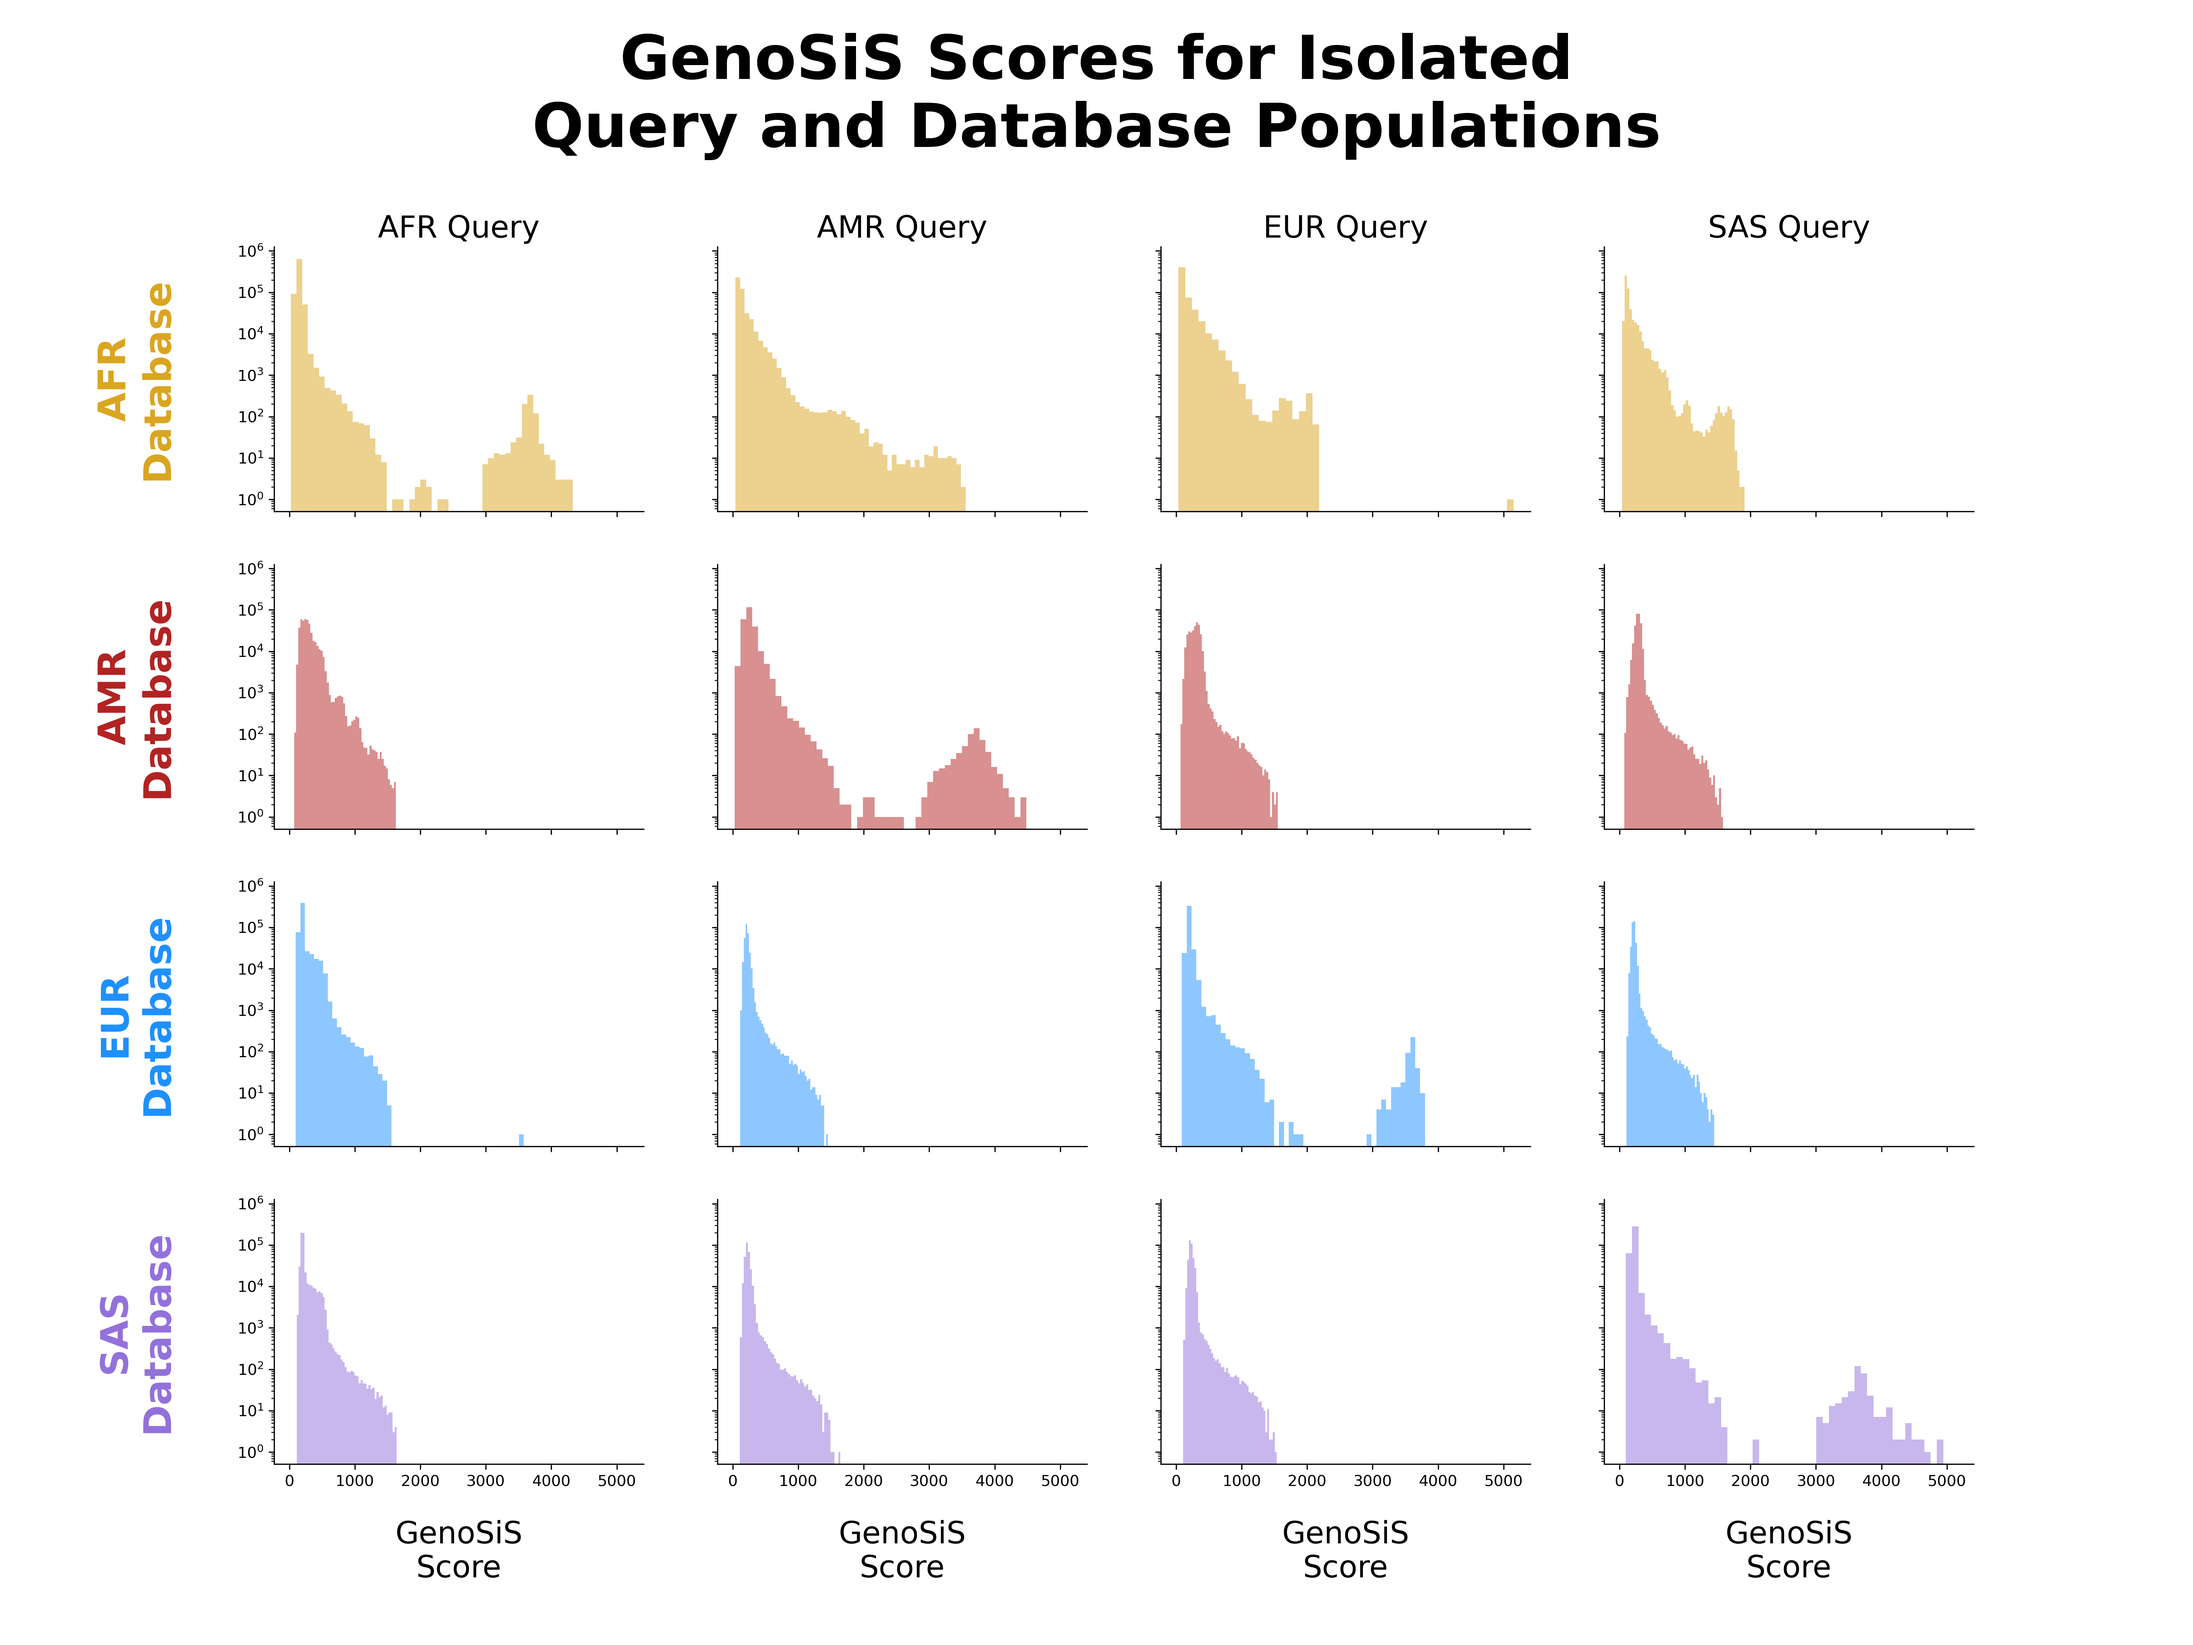
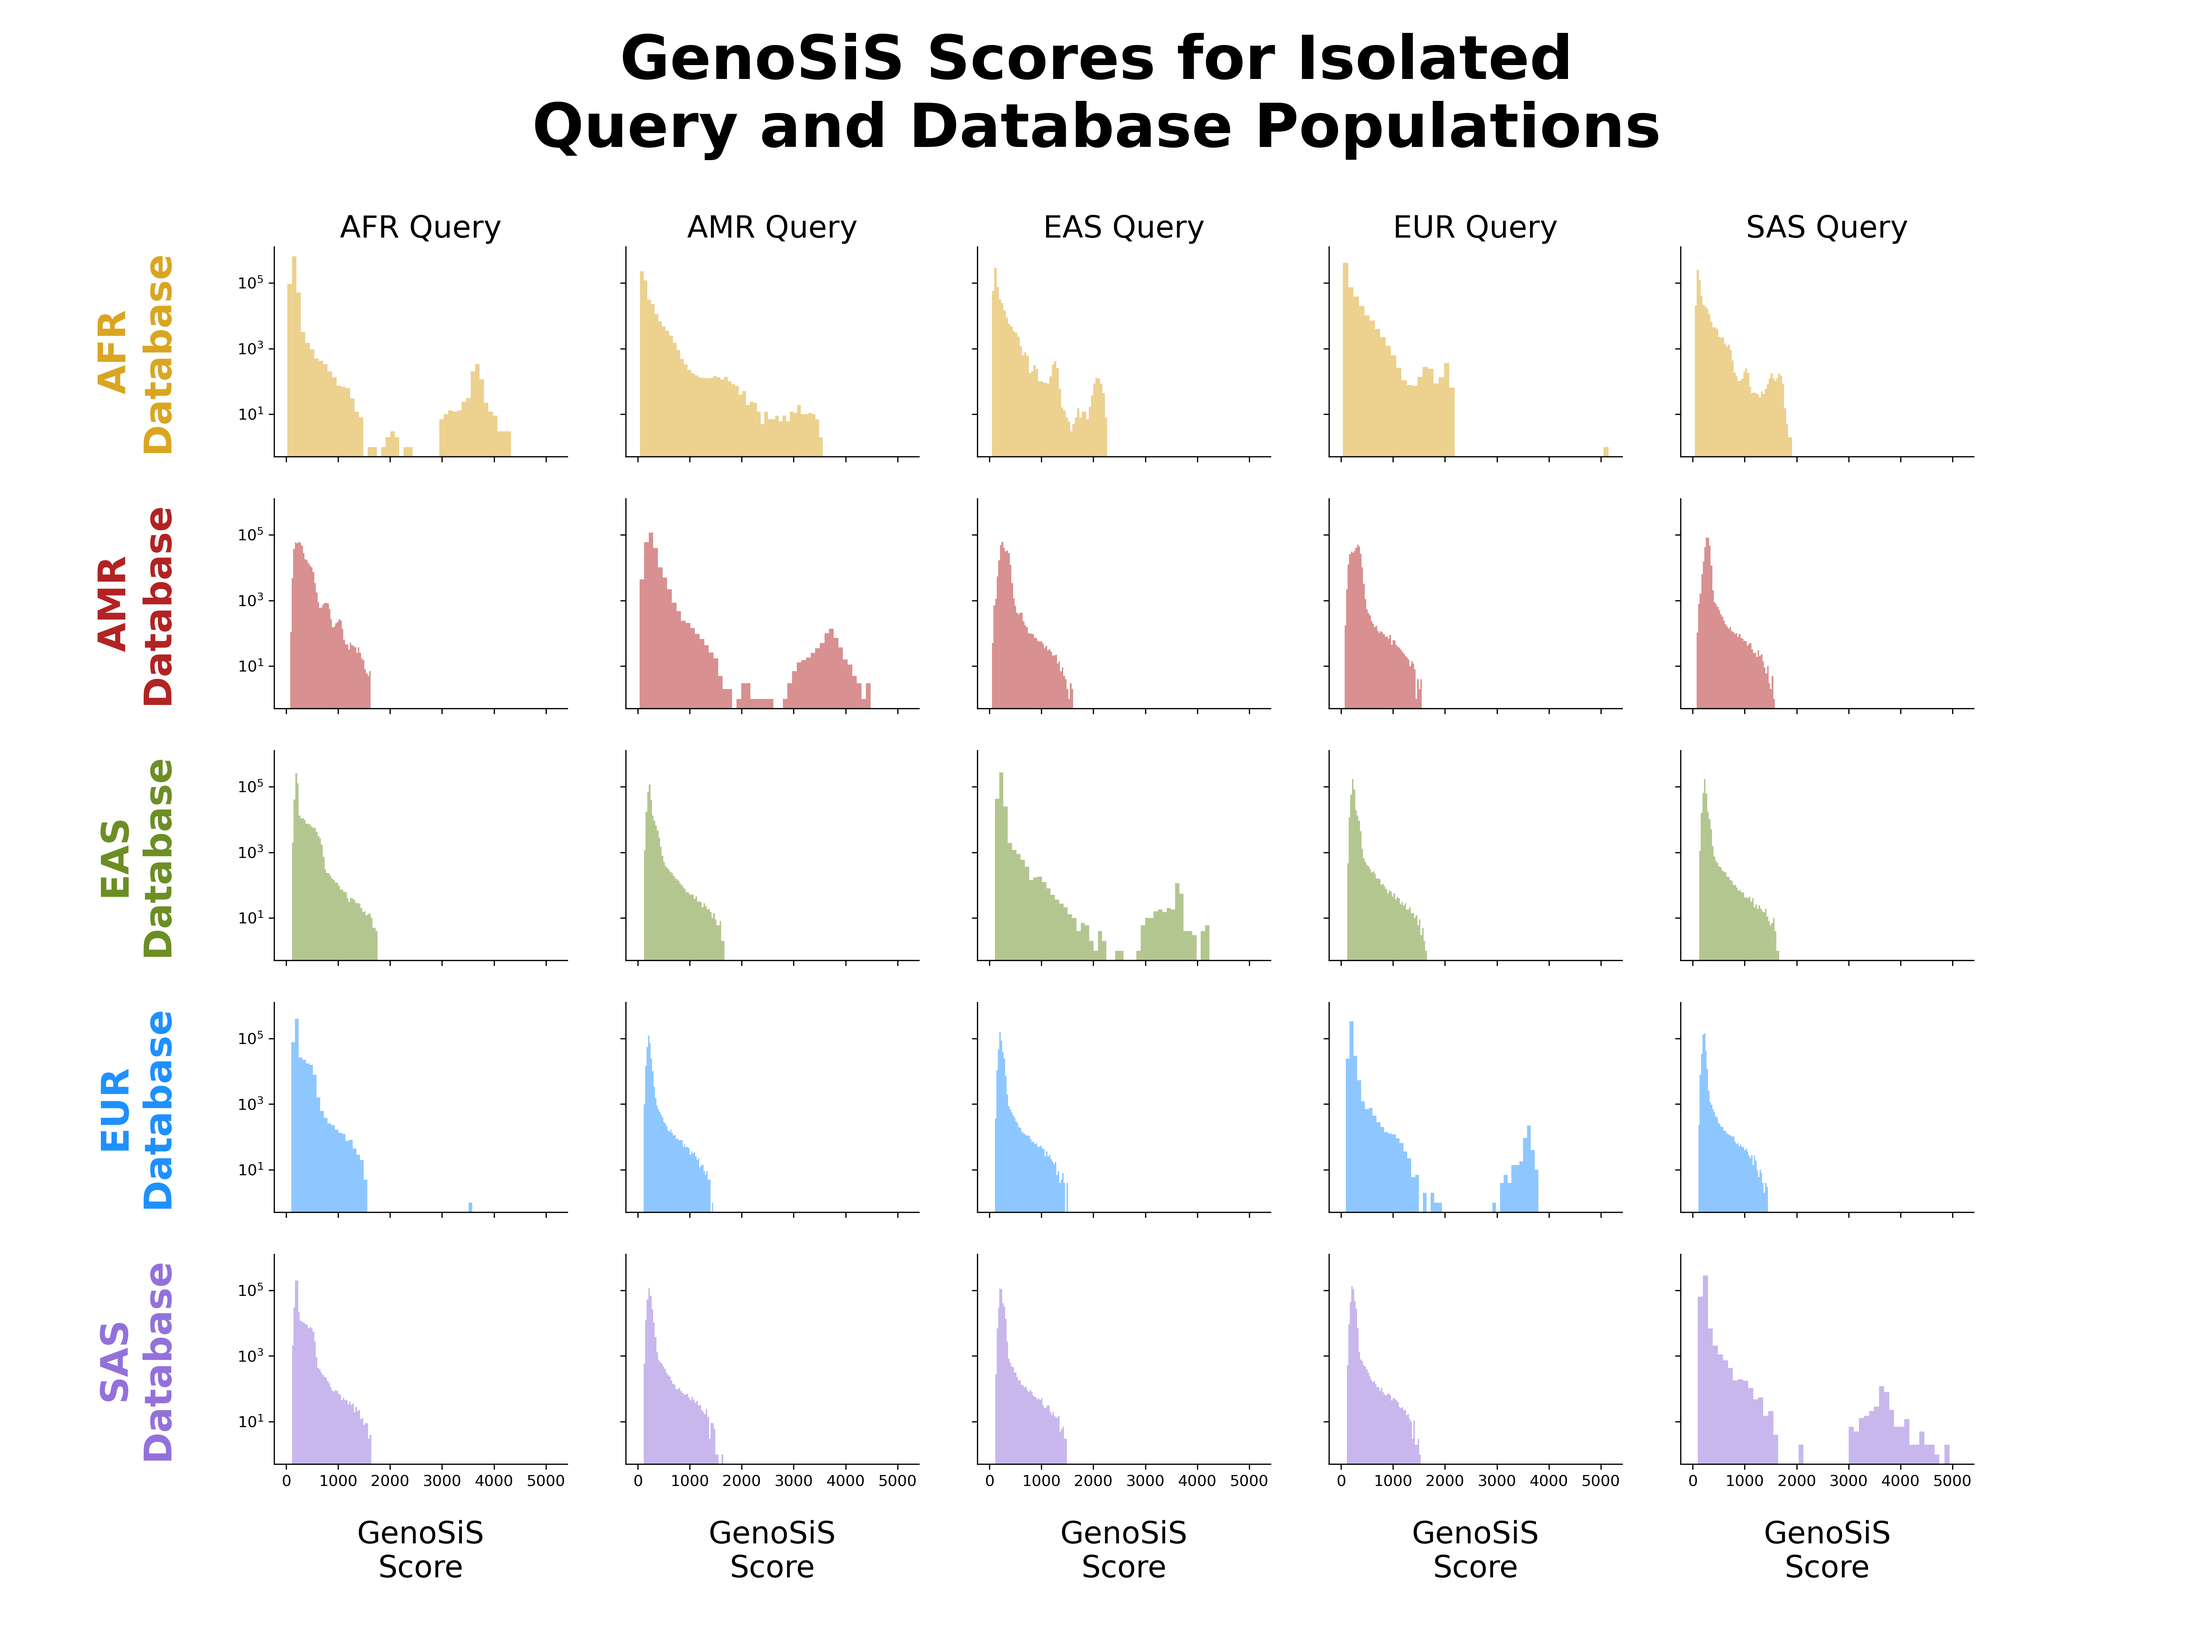
adding EAS

diff --git a/plotting/figure5_quality.py b/plotting/figure5_quality.py
@@ -57,14 +57,14 @@ def plot_quality_results_heatmap(AFR_quality_scores,
 
 def plot_quality_results_histogram(AFR_quality_scores,
                                    AMR_quality_scores,
-                                   # EAS_quality_scores,
+                                   EAS_quality_scores,
                                    EUR_quality_scores,
                                    SAS_quality_scores,
                                    colors,
                                    png):
     SUPER_SUBPOPULATIONS = ancestry_helpers.SUPER_SUBPOPULATIONS
 
-    fig, ax = plt.subplots(4, 4,
+    fig, ax = plt.subplots(5, 5,
                            figsize=(20, 15), dpi=300,
                            sharex=True, sharey=True)
 
@@ -80,7 +80,7 @@ def plot_quality_results_histogram(AFR_quality_scores,
                             fontsize=25, color=colors[database_population],
                             fontweight='bold', labelpad=40)
         # set x-axis label
-        ax[3, i].set_xlabel('GenoSiS Score', fontsize=20, labelpad=20)
+        ax[4, i].set_xlabel('GenoSiS Score', fontsize=20, labelpad=20)
         # ignore outliers
         # ax[i, 1].set_xlim(0, 1000)
         # log scale
@@ -95,41 +95,43 @@ def plot_quality_results_histogram(AFR_quality_scores,
             database_scores.extend(AMR_quality_scores[database_population][database_subpopulation])
         ax[i, 1].hist(database_scores, bins=50, color=colors[database_population], alpha=0.5)
         # set x-axis label
-        ax[3, i].set_xlabel('GenoSiS Score', fontsize=20, labelpad=20)
+        ax[4, i].set_xlabel('GenoSiS Score', fontsize=20, labelpad=20)
 
 
     # # East Asian query is third column
-    # ax[0, 2].set_title('EAS Query', fontsize=20)
-    # for i, database_population in enumerate(EAS_quality_scores.keys()):
-    #     database_scores = []
-    #     for j, database_subpopulation in enumerate(EAS_quality_scores[database_population].keys()):
-    #         database_scores.extend(EAS_quality_scores[database_population][database_subpopulation])
-    #     ax[i, 2].hist(database_scores, bins=50, color=ancestry_colors[database_population], alpha=0.5)
+    ax[0, 2].set_title('EAS Query', fontsize=20)
+    for i, database_population in enumerate(EAS_quality_scores.keys()):
+        database_scores = []
+        for j, database_subpopulation in enumerate(EAS_quality_scores[database_population].keys()):
+            database_scores.extend(EAS_quality_scores[database_population][database_subpopulation])
+        ax[i, 2].hist(database_scores, bins=50, color=colors[database_population], alpha=0.5)
+        # set x-axis label
+        ax[4, i].set_xlabel('GenoSiS Score', fontsize=20, labelpad=20)
 
     # European query is fourth column
-    ax[0, 2].set_title('EUR Query', fontsize=20)
+    ax[0, 3].set_title('EUR Query', fontsize=20)
     for i, database_population in enumerate(EUR_quality_scores.keys()):
         database_scores = []
         for j, database_subpopulation in enumerate(EUR_quality_scores[database_population].keys()):
             database_scores.extend(EUR_quality_scores[database_population][database_subpopulation])
-        ax[i, 2].hist(database_scores, bins=50, color=colors[database_population], alpha=0.5)
+        ax[i, 3].hist(database_scores, bins=50, color=colors[database_population], alpha=0.5)
         # set x-axis label
-        ax[3, i].set_xlabel('GenoSiS Score', fontsize=20, labelpad=20)
+        ax[4, i].set_xlabel('GenoSiS Score', fontsize=20, labelpad=20)
 
     # South Asian query is fifth column
-    ax[0, 3].set_title('SAS Query', fontsize=20)
+    ax[0, 4].set_title('SAS Query', fontsize=20)
     for i, database_population in enumerate(SAS_quality_scores.keys()):
         database_scores = []
         for j, database_subpopulation in enumerate(SAS_quality_scores[database_population].keys()):
             database_scores.extend(SAS_quality_scores[database_population][database_subpopulation])
-        ax[i, 3].hist(database_scores, bins=50, color=colors[database_population], alpha=0.5)
+        ax[i, 4].hist(database_scores, bins=50, color=colors[database_population], alpha=0.5)
         # set x-axis label
-        ax[3, i].set_xlabel('GenoSiS\nScore', fontsize=20, labelpad=20)
+        ax[4, i].set_xlabel('GenoSiS\nScore', fontsize=20, labelpad=20)
 
 
     # formatting for all subplots
-    for i in range(4):
-        for j in range(4):
+    for i in range(5):
+        for j in range(5):
             # remove spines
             ax[i, j].spines['top'].set_visible(False)
             ax[i, j].spines['right'].set_visible(False)
@@ -154,7 +156,7 @@ def main():
 
     AFR_quality_scores = read_quality_results(quality_dir + 'AFR.txt')
     AMR_quality_scores = read_quality_results(quality_dir + 'AMR.txt')
-    EAS_quality_scores = []
+    EAS_quality_scores = read_quality_results(quality_dir + 'EAS.txt')
     EUR_quality_scores = read_quality_results(quality_dir + 'EUR.txt')
     SAS_quality_scores = read_quality_results(quality_dir + 'SAS.txt')
 
@@ -170,7 +172,7 @@ def main():
 
     plot_quality_results_histogram(AFR_quality_scores,
                                    AMR_quality_scores,
-                                   # EAS_quality_scores,
+                                   EAS_quality_scores,
                                    EUR_quality_scores,
                                    SAS_quality_scores,
                                    colors,
